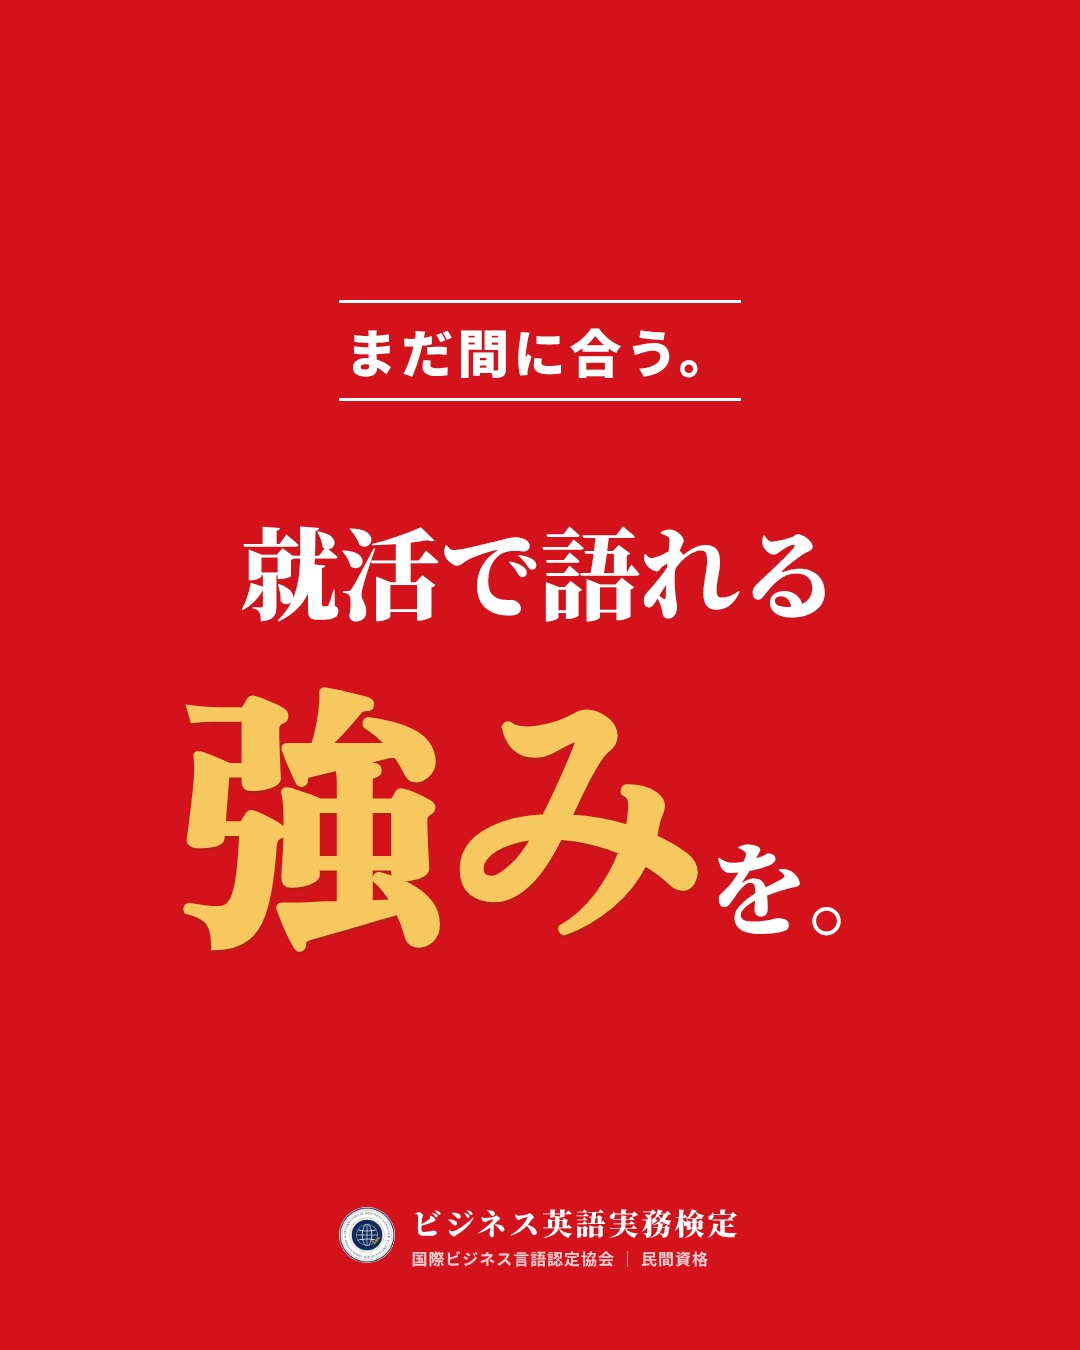
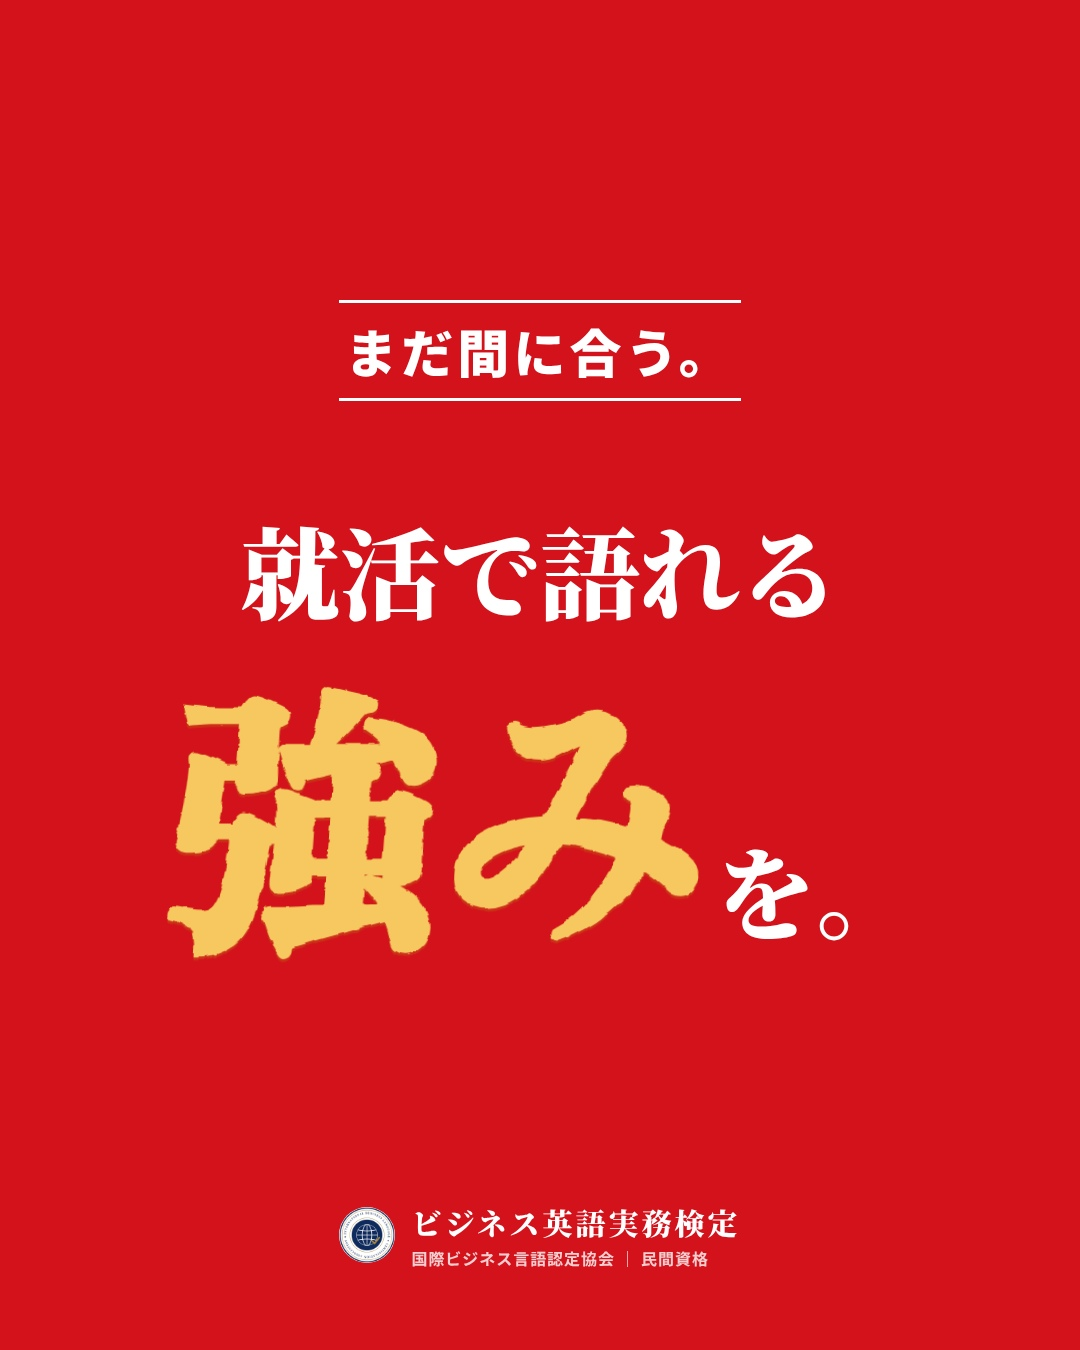
1枚目決定版：強みに筆感
Claude-Session: https://claude.ai/code/session_014p5jKzC7vmuyPAkeTgUdi2

diff --git a/content/posters/formats/cE3.html b/content/posters/formats/cE3.html
@@ -1,0 +1,23 @@
+<!doctype html><html><head><meta charset="utf-8"><style>
+*{margin:0;padding:0;box-sizing:border-box}html,body{width:1080px;height:1350px;overflow:hidden}
+body{background:#d3121c;color:#fff;font-family:"Noto Serif CJK JP",serif;-webkit-font-smoothing:antialiased;position:relative}
+.w{position:absolute;left:0;right:0;top:300px;text-align:center}
+.a{font-weight:700;font-size:72px;letter-spacing:.06em}
+.b{margin-top:0;font-weight:900;font-size:150px;line-height:1.2}
+.bar{width:110px;height:4px;background:#fff;margin:60px 0 40px}
+.c{font-weight:700;font-size:46px;letter-spacing:.06em}
+.c b{font-weight:900;border-bottom:3px solid #fff;padding-bottom:4px}
+.ft{position:absolute;left:0;right:0;bottom:80px;display:flex;align-items:center;justify-content:center;gap:16px}
+.ft img{width:56px;height:56px;border-radius:50%;background:#fff}.ft .n{font-weight:900;font-size:30px;letter-spacing:.1em}
+.ft .s{font-family:"Noto Sans CJK JP";font-weight:700;font-size:16px;letter-spacing:.06em;opacity:.8;margin-top:2px}
+.g{color:#f6c85f;text-shadow:0 2px 0 rgba(120,60,0,.25)}.s1{font-size:94px}.s2{font-size:170px;line-height:1.3}.s1{font-size:100px}.s3{display:inline-block;font-family:"CF";font-weight:400;font-size:285px;line-height:1.2;color:#f6c85f;-webkit-text-stroke:8px #f6c85f;letter-spacing:-.03em;transform:skewX(-4deg);filter:url(#brush2) drop-shadow(0 3px 0 rgba(120,60,0,.25))}.mm{display:inline-block;font-family:"Noto Sans CJK JP";font-weight:900;font-size:52px;letter-spacing:.08em;border-top:3px solid #fff;border-bottom:3px solid #fff;padding:10px 6px;margin-bottom:56px}@font-face{font-family:"Yuji Boku";src:url(yuji-boku.ttf)}@font-face{font-family:"CF";src:url(ZenAntique-Regular.ttf)}</style></head><body><svg width="0" height="0" style="position:absolute"><filter id="brush2" x="-10%" y="-10%" width="120%" height="120%">
+<feTurbulence type="fractalNoise" baseFrequency="0.045 0.08" numOctaves="3" seed="11" result="n"/>
+<feDisplacementMap in="SourceGraphic" in2="n" scale="5" xChannelSelector="R" yChannelSelector="G" result="d"/>
+<feTurbulence type="fractalNoise" baseFrequency="0.015 0.55" numOctaves="2" seed="4" result="t"/>
+<feColorMatrix in="t" type="matrix" values="0 0 0 0 0  0 0 0 0 0  0 0 0 0 0  0 0 0 -4 4.6" result="m"/>
+<feComposite in="d" in2="m" operator="in"/></filter></svg><svg width="0" height="0" style="position:absolute"><filter id="brush" x="-10%" y="-10%" width="120%" height="120%">
+<feTurbulence type="fractalNoise" baseFrequency="0.03 0.06" numOctaves="2" seed="5" result="n"/>
+<feDisplacementMap in="SourceGraphic" in2="n" scale="1" xChannelSelector="R" yChannelSelector="G"/></filter></svg>
+<div class="w"><div class="mm">まだ間に合う。</div><div class="b"><span class="s1">就活で語れる</span><br><span class="s3">強み</span><span class="s1">を。</span></div></div>
+<div class="ft"><img src="logo.png"><div><div class="n">ビジネス英語実務検定</div><div class="s">国際ビジネス言語認定協会 ｜ 民間資格</div></div></div>
+</body></html>

diff --git a/log/posted.md b/log/posted.md
@@ -173,3 +173,4 @@
 - 2026-11-02 決定｜1枚目は中央寄せ・赤ベタ・金の筆文字の版が「色・文字のバランスがベスト」（オーナー）。強みの筆文字を太く荒くした版も作成（1枚目_まだ間に合う_中央_筆文字太め）
 - 2026-11-02 作成｜1枚目「強み」の書体候補6案（A Yuji Syuku／B Yuji Mai／C Potta One／D Yuji Boku 太く傾け／E Zen Antique／F Dela Gothic One 斜体、すべて Google Fonts・OFL）｜assets/images/ad_carousel_madamaniau/強み_書体候補/
 - 2026-11-02 決定｜2枚広告の1枚目は E（強み＝Zen Antique の金、中央寄せ・赤ベタ）に決定｜1枚目_決定_まだ間に合う_強み明朝_1080x1350.jpg
+- 2026-11-02 修正｜1枚目（決定版 E）：強みに筆のかすれ・ふちの荒れを少し足した
